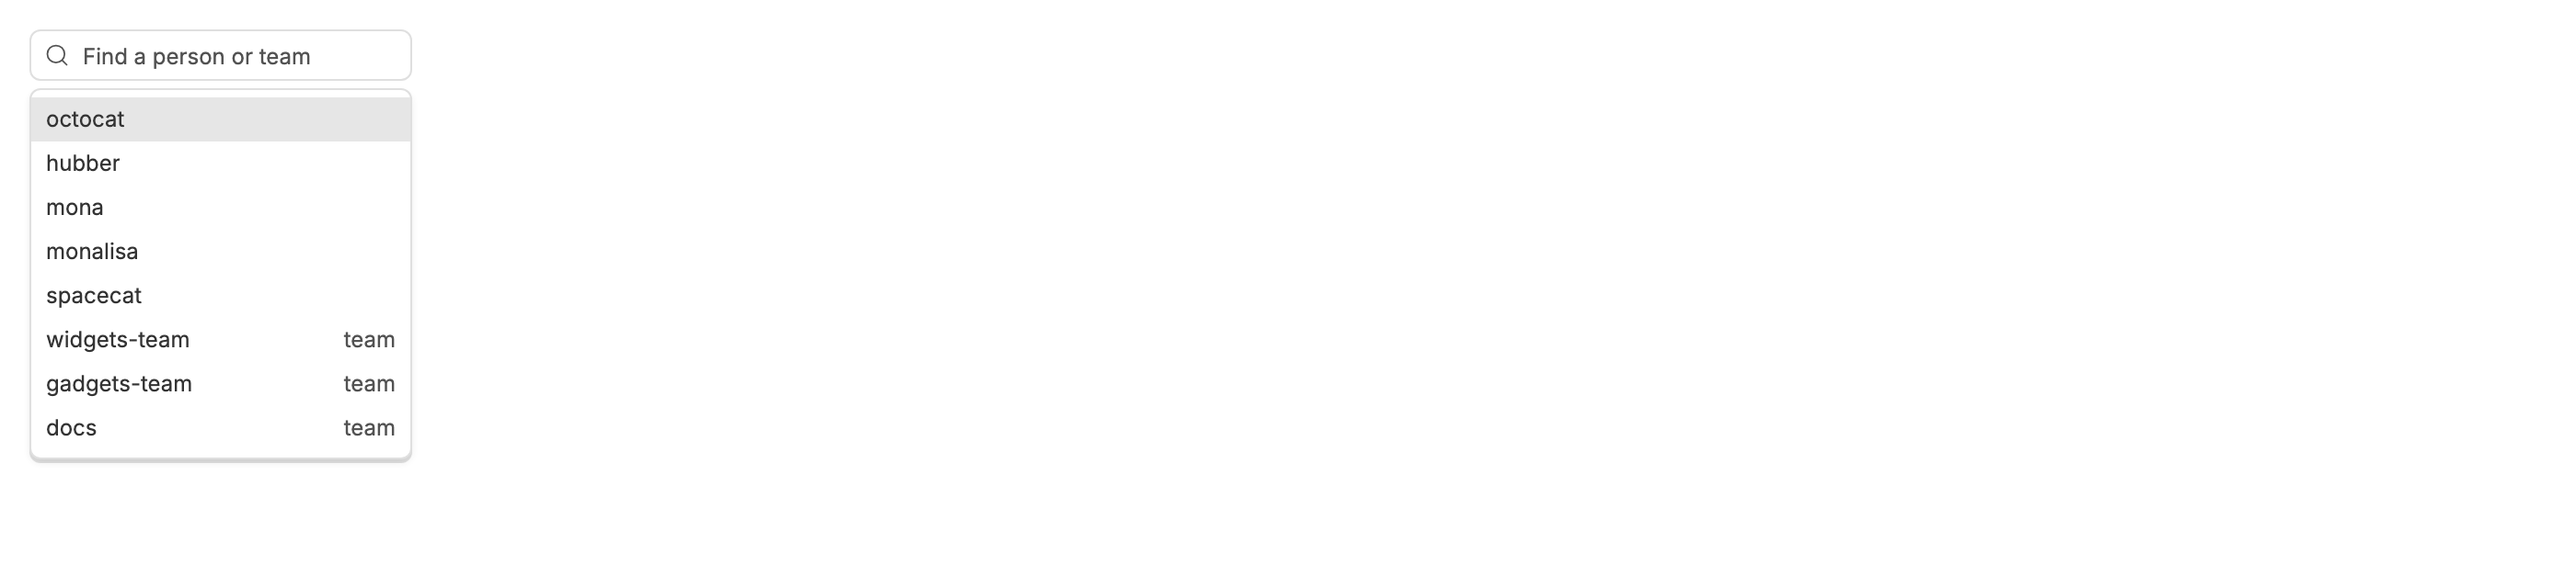
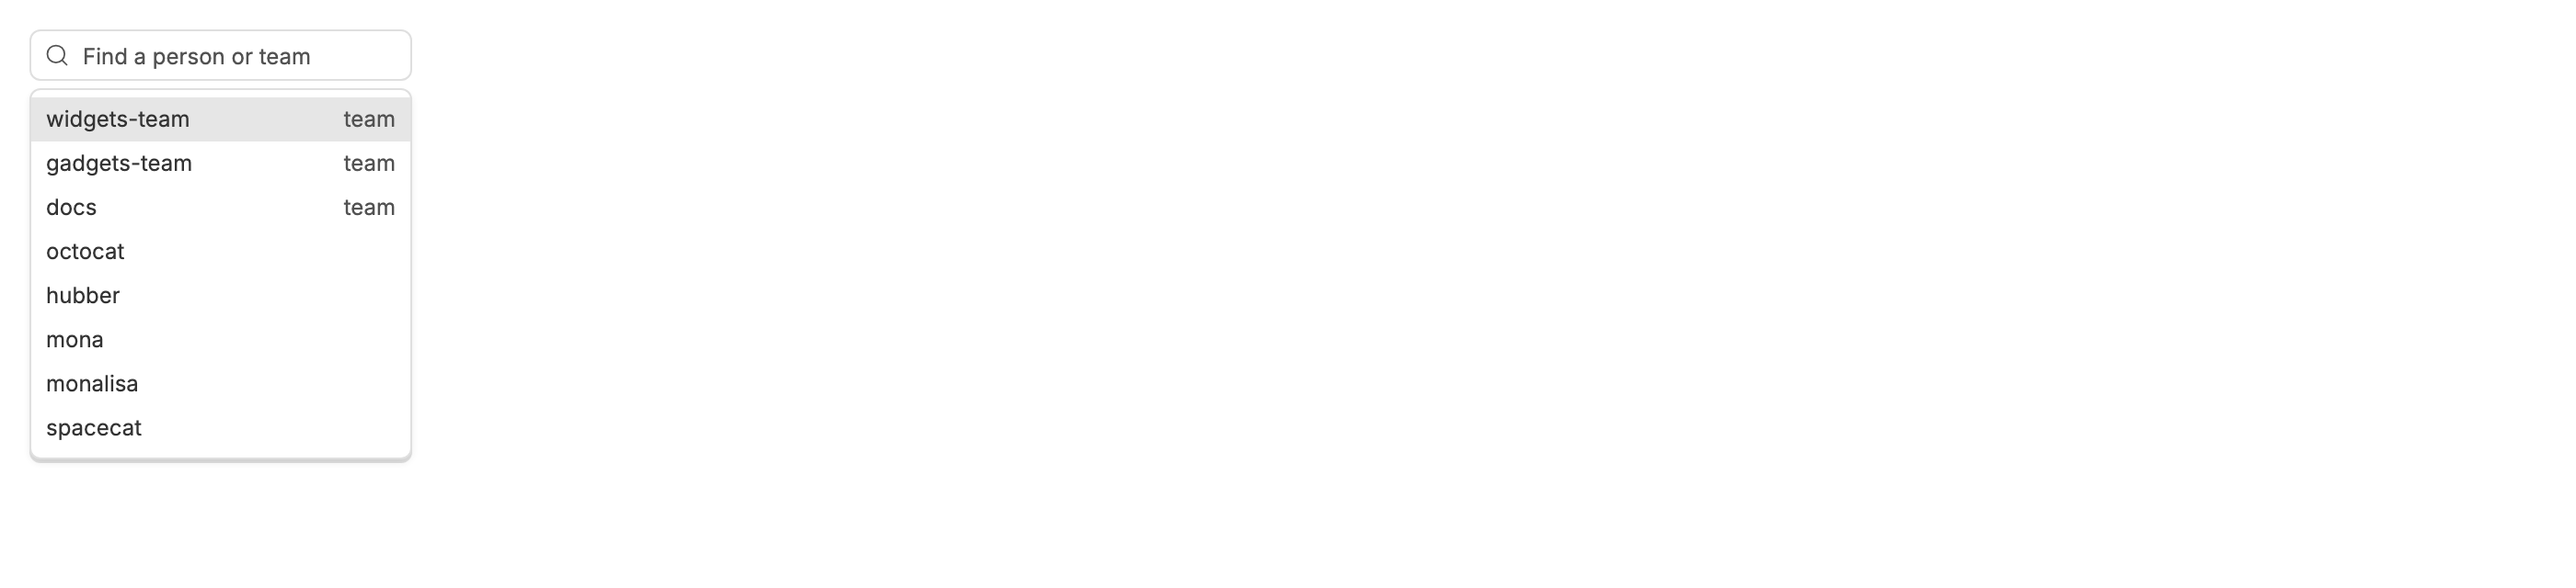
354d185 Contributor Dashboard: the finder lists teams before people
danielbachhuber/bb-plugins@354d18564d882e4a383b36962361af1da4a9dc49

Captured with uncommitted changes in the bb-plugins checkout.

diff --git a/contributor-dashboard/README.md b/contributor-dashboard/README.md
@@ -138,13 +138,13 @@ Batch, from the toolbar: every row the filters match, on every page, to tick, co
 
 ### Focused
 
-Focused with nothing typed: the five most recently active people, then three teams.
+Focused with nothing typed: three teams, then the five most recently active people.
 
 ![Focused](person-finder--focused.png)
 
 ### Typed
 
-Typing narrows the list, names starting with the text first, people before teams.
+Typing narrows the list, names starting with the text first, teams before people.
 
 ![Typed](person-finder--typed.png)
 
